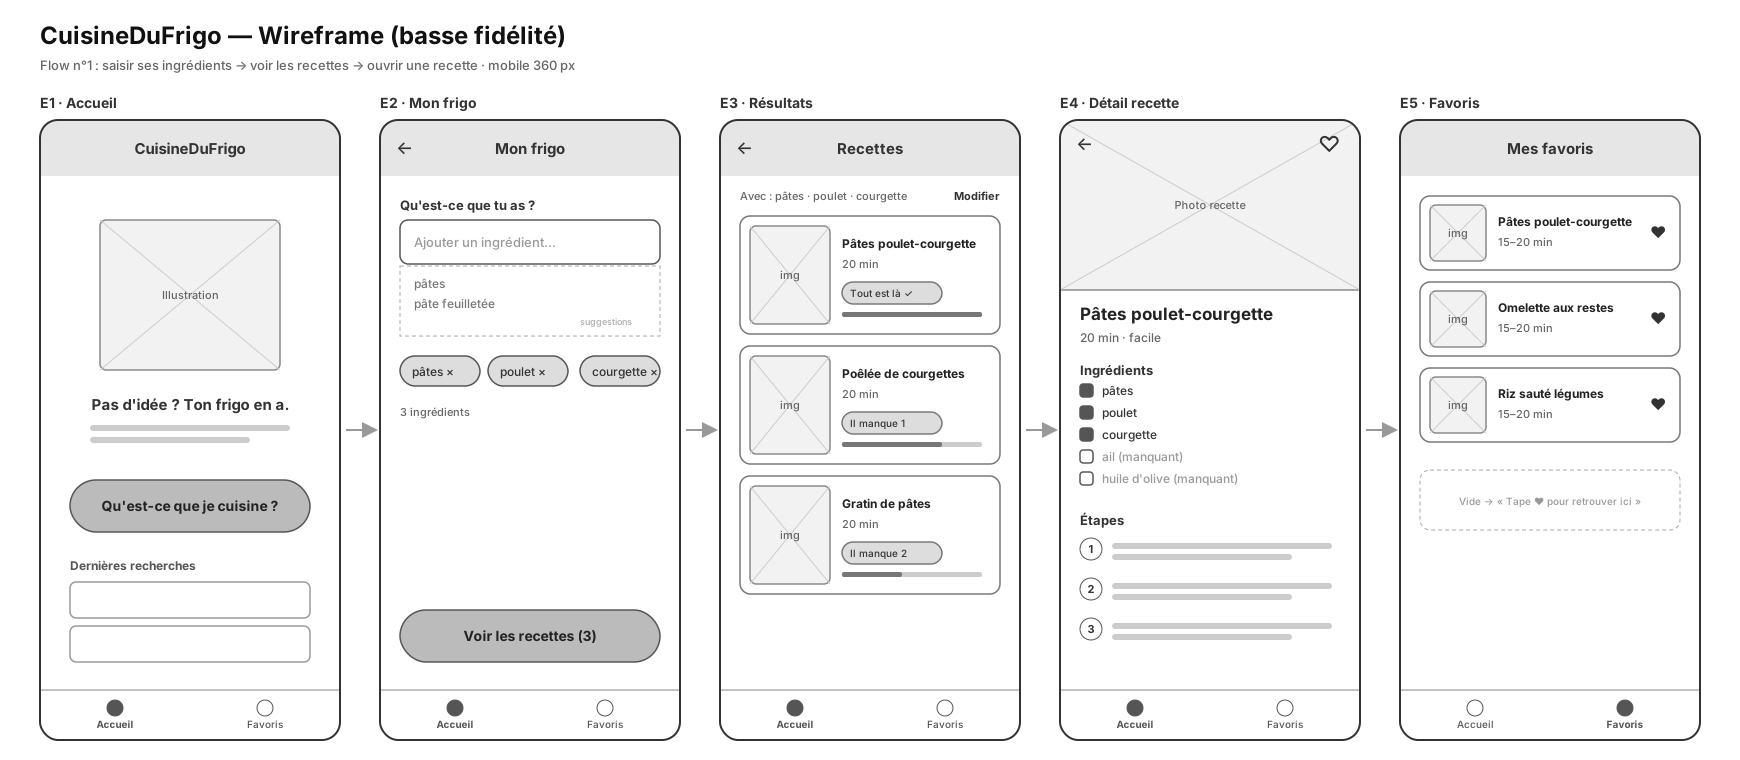
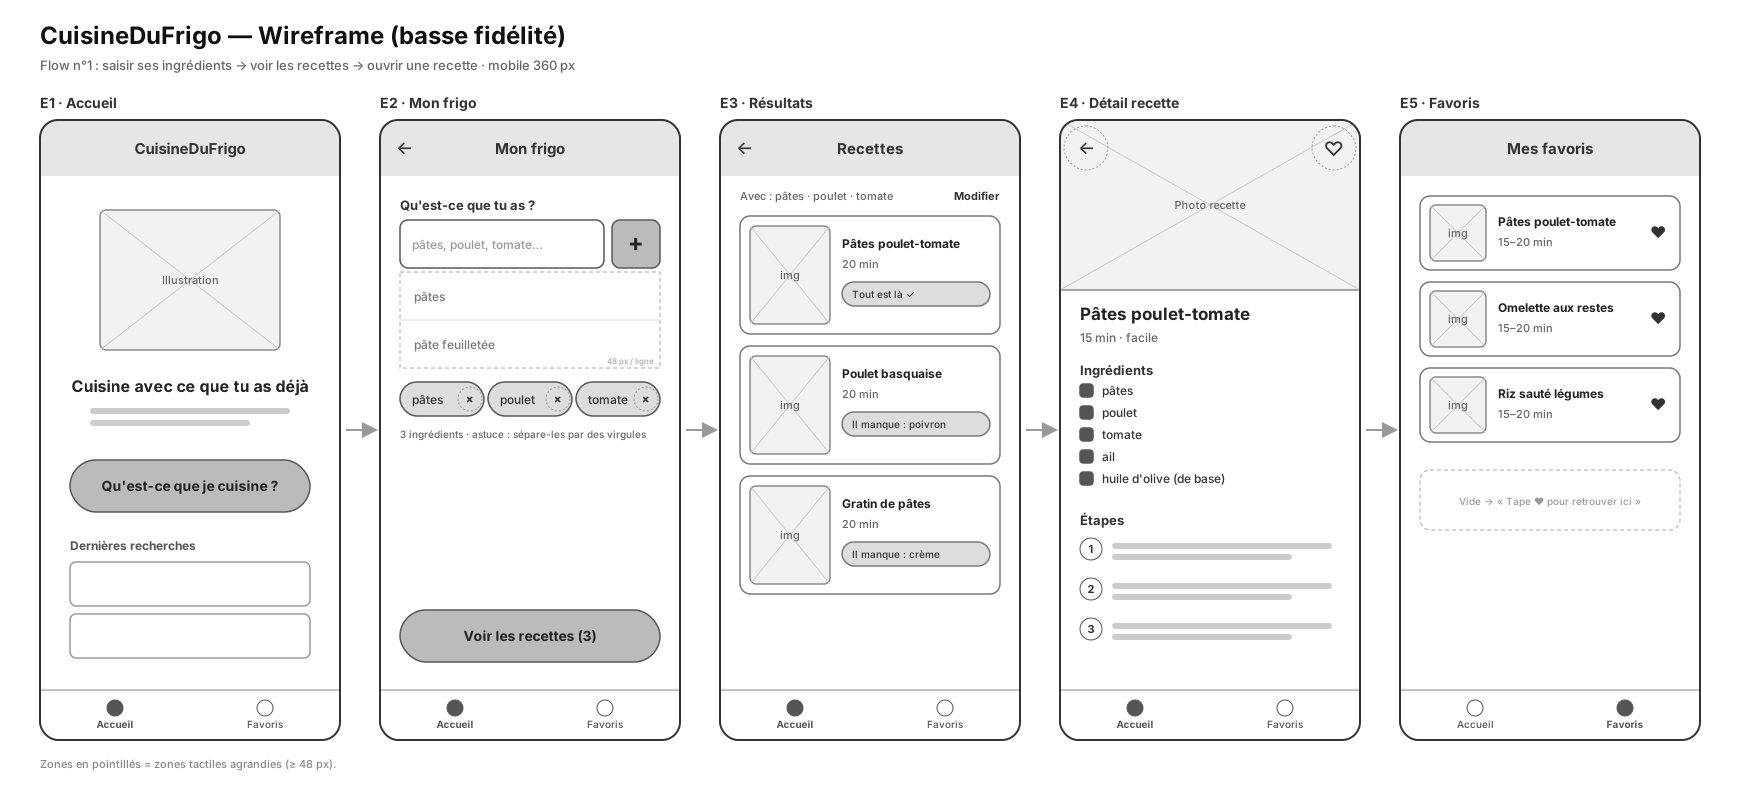
Correctifs issus de la revue croisée et des tests : brief, user flow, wireframe, design final

diff --git a/brief.md b/brief.md
@@ -1,7 +1,7 @@
 # Brief — CuisineDuFrigo
 
 > Fichier de spécification officiel du projet M291.
-> Auteur : Albion (SM-C2b) · Version 1.0 · 02.10.2026
+> Auteur : Albion (SM-C2b)
 
 ## 1. Le projet en une phrase
 
@@ -27,13 +27,15 @@ Entrer une liste d'ingrédients → voir les recettes possibles → ouvrir une r
 
 | Priorité | Fonctionnalité |
 | --- | --- |
-| Must | Saisie d'ingrédients sous forme de tags (ajout / suppression) |
+| Must | Saisie d'ingrédients sous forme de tags : champ + bouton « + » (48 × 48 px), validation par Entrée, plusieurs ingrédients d'un coup séparés par des virgules |
 | Must | Filtrage des recettes selon les ingrédients saisis |
-| Must | Tri par pourcentage d'ingrédients possédés + badge « il manque X » |
-| Must | Fiche détail : ingrédients (possédés / manquants), temps, étapes |
-| Should | Suggestions pendant la saisie (autocomplétion) |
+| Must | Tri par pourcentage d'ingrédients possédés, puis par temps de préparation (le plus rapide d'abord) en cas d'égalité |
+| Must | Badge sur chaque carte : « Tout est là ✓ » ou « Il manque : ail » (nom de l'ingrédient manquant) |
+| Must | Fiche détail : ingrédients (possédés / à acheter), temps, étapes |
+| Should | Suggestions pendant la saisie (autocomplétion dès 2 lettres) |
 | Should | Favoris (stockés en local dans le navigateur) |
 | Could | Filtre par temps de préparation (< 15 min, < 30 min) |
+| Could | Fonctionnement hors connexion une fois l'app chargée |
 
 ### Exclus (hors projet)
 
@@ -45,57 +47,69 @@ Entrer une liste d'ingrédients → voir les recettes possibles → ouvrir une r
 
 ## 6. Données
 
-Données **inventées**, stockées dans un fichier JSON local (~20 fiches).
+Données **inventées**, stockées dans des fichiers JSON locaux.
+
+- **`recettes.json`** : **30 à 40 fiches**, construites surtout avec des ingrédients courants (pâtes, riz, œufs, poulet, tomate, oignon, fromage…) pour limiter les cas « aucune recette trouvée ».
+- **`ingredients.json`** : liste de référence des ingrédients, générée à partir des fiches. Elle sert aux **suggestions** pendant la saisie.
 
 ```json
 {
   "id": 1,
-  "nom": "Pâtes poulet-courgette",
-  "temps": 20,
+  "nom": "Pâtes poulet-tomate",
+  "temps": 15,
   "difficulte": "facile",
-  "ingredients": ["pâtes", "poulet", "courgette", "ail", "huile d'olive"],
+  "ingredients": ["pâtes", "poulet", "tomate", "ail"],
   "etapes": [
-    "Cuire les pâtes.",
-    "Couper le poulet et la courgette en dés.",
-    "Faire revenir le tout avec l'ail dans l'huile.",
+    "Cuire les pâtes 10 min.",
+    "Couper le poulet en dés et le saisir.",
+    "Ajouter la tomate et l'ail.",
     "Mélanger avec les pâtes."
   ]
 }
 ```
 
+### Règles de comparaison des ingrédients
+
+- **Ingrédients de base** : sel, poivre, huile, eau, sucre et farine sont **toujours considérés comme présents**. Ils n'apparaissent jamais comme « manquants » et sont listés à part sur la fiche (« + sel, poivre, huile »).
+- **Normalisation** avant comparaison : minuscules, sans accents, au singulier, espaces supprimés (« Courgettes » = « courgette »).
+- **Ingrédient inconnu** : ajouté quand même en tag, la recherche continue avec les autres.
+
 ## 7. Écrans
 
 | Code | Écran | Rôle |
 | --- | --- | --- |
-| E1 | Accueil | Point d'entrée, bouton principal |
+| E1 | Accueil | Point d'entrée, titre « Cuisine avec ce que tu as déjà », bouton principal |
 | E2 | Mon frigo | Saisie des ingrédients |
 | E3 | Résultats | Liste des recettes filtrées |
 | E4 | Détail recette | Ingrédients + étapes + favori |
 | E5 | Favoris | Recettes enregistrées |
 
-→ Wireframes : [`mon_app/Design/wireframes/`](mon_app/Design/wireframes/)
+→ Wireframes : [`mon_app/Design/wireframes/`](mon_app/Design/wireframes/) · Design final : [`mon_app/Design/design-final.png`](mon_app/Design/design-final.png)
 
 ## 8. Contraintes
 
 - **Mobile first** (360–414 px), utilisable à une main.
 - Technologies : HTML, CSS, JavaScript (pas de framework imposé).
-- Accessibilité : contrastes AA, zones tactiles ≥ 44 px, textes ≥ 16 px.
+- Accessibilité (WCAG 2.2 AA) : contrastes ≥ 4,5:1, **zones tactiles ≥ 48 × 48 px**, textes ≥ 16 px, navigation complète au clavier avec focus visible, `alt` sur les images.
 - Pas de dépendance payante.
+
+→ Audit et tests : [`mon_app/Design/tests-utilisateurs.md`](mon_app/Design/tests-utilisateurs.md)
 
 ## 9. Critères de réussite
 
 - Kevin trouve une recette en **moins de 3 interactions** après la saisie.
-- Il voit **immédiatement** ce qui lui manque.
-- L'app fonctionne hors connexion une fois chargée.
+- Il voit **immédiatement** ce qui lui manque, sans ouvrir la fiche.
+- Au test 5 secondes, l'idée « cuisiner avec ce qu'on a déjà » est comprise.
+- 100 % des textes respectent les contrastes WCAG AA.
 
 ## 10. Planning (4 semaines)
 
 | Semaine | Objectif |
 | --- | --- |
-| 1 | Structure HTML des 5 écrans + données JSON |
-| 2 | Saisie des tags + logique de filtrage |
-| 3 | Fiche détail + favoris + cas limites |
-| 4 | Design final, accessibilité, tests, corrections |
+| 1 | Structure HTML des 5 écrans + données JSON (recettes et ingrédients) |
+| 2 | Saisie des tags (bouton « + », virgules, normalisation) + logique de filtrage et de tri |
+| 3 | Fiche détail + favoris + cas limites + **styles du design final et contrastes** |
+| 4 | Navigation clavier et focus, test utilisateur sur l'app en ligne (s16), corrections |
 
 ## 11. Revue croisée
 

diff --git a/mon_app/Design/user-flow.md b/mon_app/Design/user-flow.md
@@ -23,16 +23,16 @@ flowchart TD
 
 | # | Écran | Action de Kevin | Ce que l'app fait / affiche | Feedback attendu |
 | --- | --- | --- | --- | --- |
-| 1 | **E1 Accueil** | Ouvre l'app | Logo, phrase d'accroche, gros bouton « Qu'est-ce que je cuisine ? », barre d'onglets (Accueil / Favoris) | Un seul appel à l'action visible, chargement < 1 s |
+| 1 | **E1 Accueil** | Ouvre l'app | Logo, titre « Cuisine avec ce que tu as déjà », gros bouton « Qu'est-ce que je cuisine ? », barre d'onglets (Accueil / Favoris) | Un seul appel à l'action visible, chargement < 1 s |
 | 2 | **E1 Accueil** | Tape sur le bouton principal | Navigation vers E2 | Transition fluide |
-| 3 | **E2 Mon frigo** | Tape « pâtes » dans le champ | Liste de suggestions sous le champ (pâtes, pâte feuilletée…) | Suggestions dès 2 lettres |
-| 4 | **E2 Mon frigo** | Valide (Entrée ou suggestion) | Ajoute un tag « pâtes ✕ », vide le champ | Tag apparaît avec petite animation, compteur « 1 ingrédient » |
-| 5 | **E2 Mon frigo** | Ajoute « poulet », « courgette » | Tags ajoutés | Bouton « Voir les recettes (3) » devient actif (couleur pleine) |
+| 3 | **E2 Mon frigo** | Tape « pâtes » dans le champ | Liste de suggestions sous le champ (pâtes, pâte feuilletée…), lignes de 48 px | Suggestions dès 2 lettres |
+| 4 | **E2 Mon frigo** | Valide (bouton « + », Entrée ou suggestion) | Ajoute un tag « pâtes ✕ », vide le champ | Tag apparaît avec petite animation, compteur « 1 ingrédient » |
+| 5 | **E2 Mon frigo** | Tape « poulet, tomate » d'un coup | Le texte est découpé sur les virgules : 2 tags ajoutés | Bouton « Voir les recettes (3) » devient actif (couleur pleine) |
 | 6 | **E2 Mon frigo** | Tape ✕ sur un tag | Supprime l'ingrédient | Tag disparaît, compteur mis à jour |
 | 7 | **E2 Mon frigo** | Tape « Voir les recettes » | Filtre les fiches recettes, navigation vers E3 | Indicateur de chargement si > 300 ms |
-| 8 | **E3 Résultats** | Parcourt la liste | Cartes triées par % d'ingrédients possédés : nom, temps, badge « Tout est là ✓ » ou « Il manque 1 » | Rappel des ingrédients saisis en haut |
+| 8 | **E3 Résultats** | Parcourt la liste | Cartes triées par % d'ingrédients possédés : nom, temps, badge « Tout est là ✓ » ou « Il manque : ail » (ingrédient nommé) | Rappel des ingrédients saisis en haut |
 | 9 | **E3 Résultats** | Tape sur une carte | Navigation vers E4 | — |
-| 10 | **E4 Détail** | Lit la recette | Ingrédients (possédés = coché vert, manquants = gris barré), temps, étapes numérotées | Distinction visuelle immédiate possédé / manquant |
+| 10 | **E4 Détail** | Lit la recette | Ingrédients (possédés = coché vert, manquants = « à acheter » en orange, ingrédients de base listés à part), temps, étapes numérotées | Distinction visuelle immédiate possédé / manquant |
 | 11 | **E4 Détail** | Tape ♥ | Ajoute aux favoris | Cœur se remplit + toast « Ajoutée aux favoris » |
 | 12 | **E5 Favoris** | Ouvre l'onglet | Liste des recettes enregistrées | Recette ajoutée visible en premier |
 
@@ -42,6 +42,7 @@ flowchart TD
 | --- | --- |
 | Aucun ingrédient saisi | Bouton « Voir les recettes » désactivé + texte d'aide « Ajoute au moins 1 ingrédient » |
 | Ingrédient inconnu | Ajouté quand même en tag, message discret « Pas reconnu, on cherche quand même » |
+| Ingrédient de base (sel, huile…) | Jamais compté comme manquant |
 | Ingrédient en double | Pas de second tag, le tag existant clignote |
 | Aucune recette trouvée | Écran vide illustré : « Aucune recette avec ça… essaie d'enlever un ingrédient » + bouton retour |
 | Aucun favori | Message « Tape ♥ sur une recette pour la retrouver ici » |
